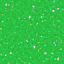
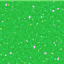
ui(base): убрать жёлтую линию максимума HP на кромке зоны базы; assets: обновление текстур Ground Holy + fade

Changed region(s): [[0.0, 0.0, 1.0, 0.0312]]

diff --git a/src/scenes/GameScene.ts b/src/scenes/GameScene.ts
@@ -134,8 +134,6 @@ export class GameScene extends Phaser.Scene {
   private pendingBiteCount = 0;
   /** Индикатор здоровья базы: заливка зоны базы цветом снизу вверх (0 HP = полная) */
   private baseHealthFill: Phaser.GameObjects.Rectangle | null = null;
-  /** Жёлтая линия максимума здоровья базы у верхней кромки зоны базы */
-  private baseHealthLine: Phaser.GameObjects.Rectangle | null = null;
   /** Загон монстров: спрайты очереди у верхней кромки (оставшиеся), не в бою */
   private penSprites: Phaser.GameObjects.Image[] = [];
 
@@ -146,8 +144,6 @@ export class GameScene extends Phaser.Scene {
   private static readonly COLOR_BASE_BG = 0x0a1a0a;
   /** Цвет индикатора здоровья базы: заливка зоны базы снизу вверх (0 HP = полная) */
   private static readonly COLOR_BASE_HEALTH = 0xb70000;
-  /** Жёлтая линия максимума здоровья (верхняя кромка зоны базы) */
-  private static readonly COLOR_BASE_HEALTH_MAX = 0xffd700;
   /** Цвет фона загона монстров (полоса у верхней кромки поля боя) */
   private static readonly COLOR_PEN_BG = 0x1c1c28;
   /** Высота загона монстров, css-px (полоса на всю ширину поля боя) */
@@ -549,24 +545,6 @@ export class GameScene extends Phaser.Scene {
     // Depth 0 (по умолчанию): создаётся в createZoneVisuals ДО алтарей
     // (createElements) — рендерится ПОД ними, но над фоном зоны базы
     this.baseHealthFill = fill;
-
-    // Тонкая жёлтая линия максимума здоровья у ВЕРХНЕЙ кромки зоны базы.
-    // При полном HP заливка пуста, линия показывает уровень «полного» бара.
-    // Создаётся ПОСЛЕ baseHealthFill — рендерится поверх (и под алтарями).
-    // Яркая (без альфы), чтобы читаться поверх священной зелёной земли.
-    if (this.baseHealthLine) {
-      this.baseHealthLine.destroy();
-      this.baseHealthLine = null;
-    }
-    const line = this.add.rectangle(
-      this.baseZone.x + this.baseZone.width / 2,
-      this.baseZone.y,
-      this.baseZone.width,
-      2,
-      GameScene.COLOR_BASE_HEALTH_MAX,
-      1
-    );
-    this.baseHealthLine = line;
     this.updateBaseHealthFill();
   }
 
